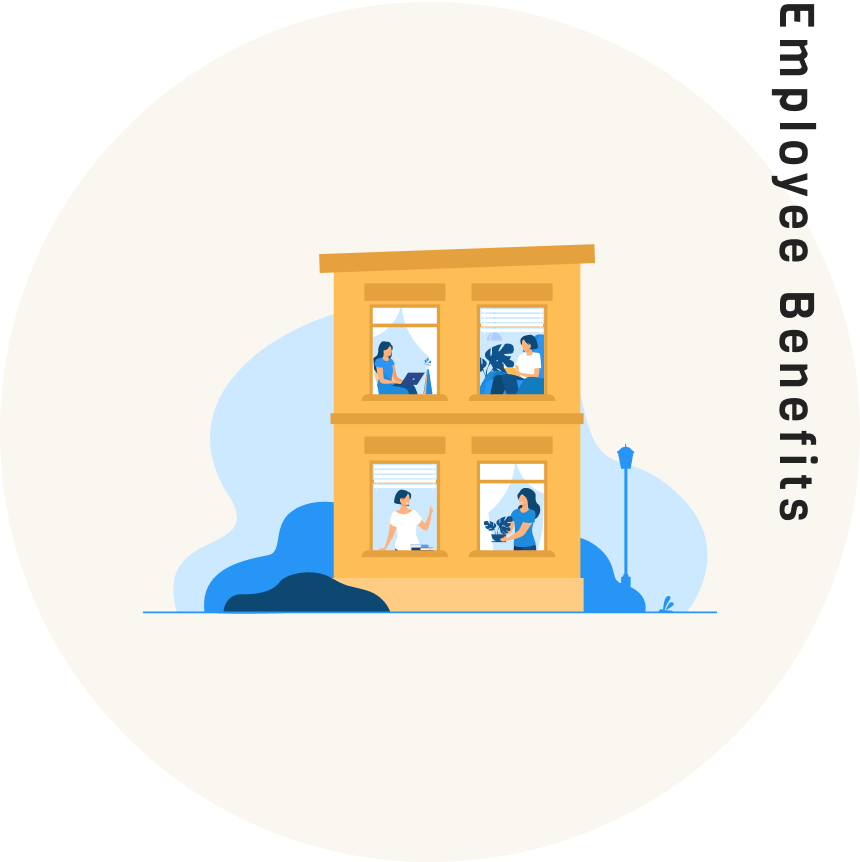
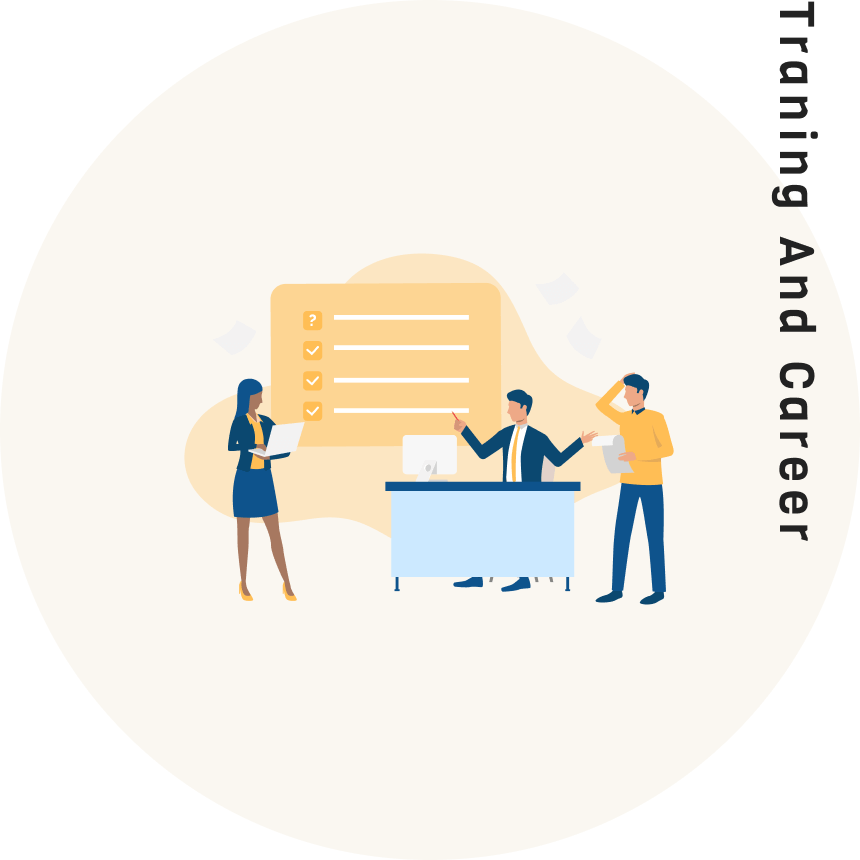
add:top benefits

Changed region(s): [[0.1814, 0.2721, 0.8465, 0.7256], [0.8767, 0.0, 0.9674, 0.6349]]

diff --git a/scss/object/project/_benefits.scss b/scss/object/project/_benefits.scss
@@ -1,0 +1,120 @@
+/******************************
+top benefits
+******************************/
+@use "../../foundation/forwards" as *;
+@use "sass:math";
+
+.p-benefits {
+  .l-inner--1024 {
+    @include mq(pc) {
+      padding-left: rem(35);
+      padding-right: rem(35);
+    }
+  }
+
+  &__title {
+    margin-bottom: rem(19);
+    @include mq(pc) {
+      margin-top: rem(45);
+      margin-bottom: rem(10);
+      margin-inline: auto;
+    }
+  }
+
+  &__description {
+    margin-bottom: rem(51);
+    line-height: 1.5;
+    @include mq(pc) {
+      padding-left: rem(134);
+      line-height: 1;
+      margin-bottom: rem(114);
+    }
+  }
+
+  &__contents {
+    display: flex;
+    flex-direction: column;
+    align-items: center;
+    gap: rem(36);
+
+    @include mq(tab) {
+      flex-direction: row;
+      align-items: flex-start;
+      justify-content: center;
+      gap: rclamp(32, 94, 768, 1440);
+    }
+    .p-benefits__content{
+      position: relative;
+      width: rem(341);
+      @include mq(tab) {
+        width: rclamp(334, 430, 768, 1440);
+      }
+      a {
+        width: 100%;
+        margin-top: rem(36);
+
+        img {
+          width: rem(251);
+          height: auto;
+          display: block;
+          margin-inline: auto;
+          transition: transform .3s ease;
+          position: relative;
+          z-index: -1;
+          @include mq(tab) {
+            width: 100%;
+          }
+        }
+
+        .c-button--arrowB {
+          width: rclamp(42, 58, 768, 1440);
+          height: rclamp(42, 58, 768, 1440);
+          position: absolute;
+          top: rem(170);
+          right: calc(rem(75) - rem(17));
+          @include mq(tab) {
+            top: rclamp(232, 306, 768, 1440);
+            right: rclamp(16, 20, 768, 1440);
+          }
+        }
+
+        h3 {
+          display: block;
+          font-size: rem(24);
+          font-weight: 700;
+          line-height: 1;
+          padding: rem(7);
+          background-color: $color-secondary;
+          width: fit-content;
+          top: rem(228);
+          margin-top: calc(-1 * rem(23));
+          margin-bottom: rem(21);
+          margin-inline: auto;
+          @include mq(tab) {
+            font-size: rclamp(24, 32, 768, 1440);
+            padding: rem(5) rem(7);
+            margin-top: calc(-1 * rem(51));
+            margin-bottom: rem(36);
+          }
+        }
+        p {
+          line-height: 1.5;
+        }
+
+        &:hover,
+        &:focus{
+          img {
+            transform: scale(1.1);
+          }
+          .c-button--arrowB {
+            transform: translateX(rem(32));
+          }
+        }
+
+        &:last-of-type {
+          margin-top: -1px;
+        }
+      }
+    }
+  }
+}

diff --git a/index.html b/index.html
@@ -250,7 +250,27 @@
             <span class="c-topSectionTitle__upper"><span>制度・環境</span>を知る</span>
             <span class="c-topSectionTitle__lower c-poppins">benefits</span>
           </h2>
-          
+          <div class="p-benefits__description">
+            <p>当社では働く従業員とそのご家族が健やかに過ごせるよう、多様な研修、福利厚生を提供しています。</p>
+          </div>
+          <div class="p-benefits__contents">
+            <div class="p-benefits__content">
+              <a href="/career/">
+                <img src="/img/img_career1.png" alt="Training And Career">
+                <div class="c-button--arrowB"></div>
+                <h3>研修制度とキャリアパス</h3>
+                <p>個々の目標に合わせたキャリアパスを支える、豊富な研修メニューで、あなた自身の成長を強力にサポートします。</p>
+              </a>
+            </div>
+            <div class="p-benefits__content">
+              <a href="/benefits/">
+                <img src="/img/img_benefits1.png" alt="employee benefits">
+                <div class="c-button--arrowB"></div>
+                <h3>福利厚生</h3>
+                <p>TETOTEの福利厚生制度は、従業員の健康と幸福を重視し、働きやすい環境を提供することを目的としています。</p>
+              </a>
+            </div>
+          </div><!-- .p-benefits__contents -->
         </div>
       </section><!-- .p-benefits -->
     </div><!-- l-main__body -->

diff --git a/scss/object/component/_button.scss b/scss/object/component/_button.scss
@@ -178,8 +178,7 @@
     transform: translateX(-50%) translateY(-50%);
   }
   &:hover,
-  &:focus,
-  &:focus-visible {
+  &:focus{
     transform: scale(1.2);
   }
 }

diff --git a/scss/style.scss b/scss/style.scss
@@ -22,5 +22,6 @@
 @use "object/project/heroNews";
 @use "object/project/mission";
 @use "object/project/member";
+@use "object/project/benefits";
 
 //utility
